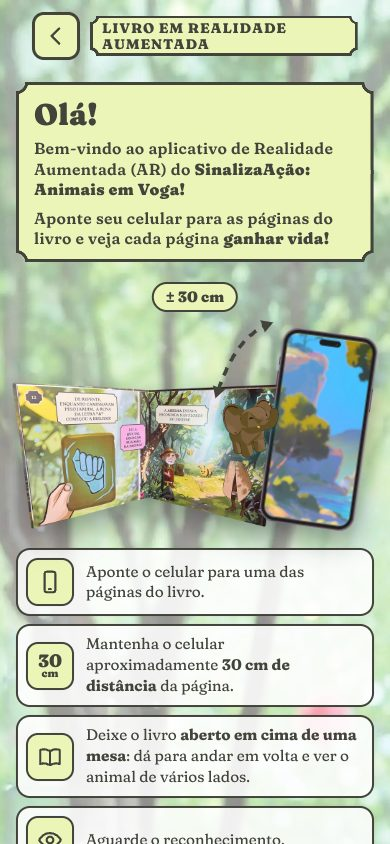
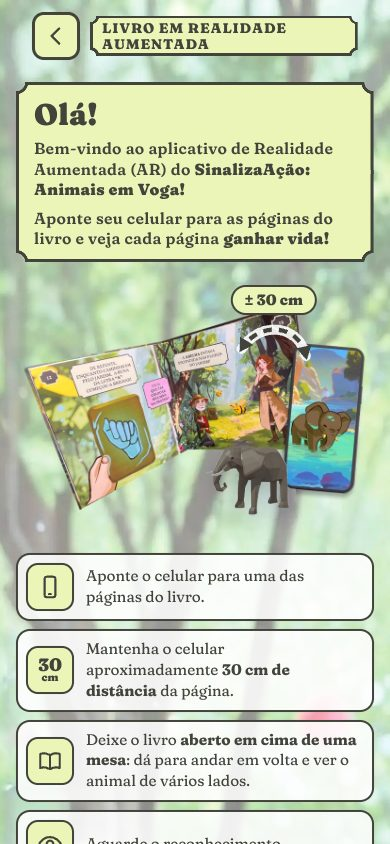
Instruções do livro: a montagem da versão de 04/11 do site (pedido do Luciano)
O Luciano corrigiu a fonte: as imagens vêm da versão do site em
atualização no artefato (04/11), não da versão de teste do plugin (19/10).

- A imagem das instruções agora é a montagem desse site: a foto do livro
  aberto, o celular com o app e o elefante em 3D que mexe a orelha e
  enrola a tromba (WebP animado, as mesmas regras .ele-anim do site),
  com '± 30 cm'. Sem pessoa desenhada.
- Saem a foto do elefante do app e o script que a fazia
  (tools/render-instrucoes.mjs, tools/render-animal.html).
- Teste ponta a ponta, README, ATUALIZACAO e making off atualizados.

Claude-Session: https://claude.ai/code/session_01RK79NN16x9Ym7SA2Zxmn64

diff --git a/inclusiapp/src/styles/app.css b/inclusiapp/src/styles/app.css
@@ -113,32 +113,21 @@ button { font-family: inherit; }
 .intro__arte { margin: 0; }
 .intro__arte img { display: block; width: 100%; height: auto; }
 
-/* instruções do livro: o "salto" do site da InclusiVR (a foto do livro aberto, o celular e o
-   elefante do app saltando da página para o celular), com a distância de ± 30 cm. Sem pessoa. */
-.salto { position: relative; width: 100%; max-width: 440px; aspect-ratio: 100 / 72; margin-inline: auto; }
-.salto > img { position: absolute; display: block; height: auto; max-width: none; }
-.salto .salto__livro { left: -1%; bottom: 2%; width: 76%; z-index: 1; filter: drop-shadow(0 12px 14px rgba(0, 0, 0, .35)); }
-.salto__brilho { position: absolute; z-index: 2; left: 42%; top: 44%; width: 26%; aspect-ratio: 1; border-radius: 50%; pointer-events: none;
-  background: radial-gradient(circle, rgba(116, 230, 232, .9) 0, rgba(88, 196, 200, .45) 34%, rgba(88, 196, 200, 0) 68%); mix-blend-mode: screen; animation: salto-brilho 6s ease-out infinite; }
-.salto .salto__celular { right: 2%; bottom: 3%; width: 27%; z-index: 3; transform: rotate(8deg); filter: drop-shadow(0 10px 14px rgba(0, 0, 0, .4)); }
-.salto .salto__animal { right: 3%; bottom: 17%; width: 24%; z-index: 4; transform-origin: 50% 85%;
-  filter: drop-shadow(0 0 10px rgba(49, 245, 255, .45)) drop-shadow(0 8px 10px rgba(0, 0, 0, .35)); animation: salto-animal 6s cubic-bezier(.2, .8, .2, 1) infinite; }
-.salto__distancia { position: absolute; inset: 0; z-index: 5; width: 100%; height: 100%; overflow: visible; pointer-events: none; }
-.salto__medida { position: absolute; z-index: 6; left: 50%; top: 2%; padding: 3px 12px; border: 2.5px solid var(--signaria-contorno); border-radius: 999px;
+/* instruções do livro: a montagem do site da InclusiVR (versão de 04/11): a foto do livro aberto,
+   o celular com o app e o elefante em 3D que mexe a orelha e a tromba (WebP animado), com "± 30 cm".
+   Sem pessoa desenhada. As regras .ele-anim são as mesmas do site. */
+.livro-ele { position: relative; width: 100%; max-width: 460px; margin: 18px auto 0; }
+.intro__arte .livro-ele__base { display: block; width: 100%; height: auto; }
+.ele-anim { position: relative; display: block; aspect-ratio: var(--ar); }
+.intro__arte .ele-anim img { position: absolute; display: block; max-width: none; height: auto; }
+.intro__arte .ele-anim__corpo { inset: 0; width: 100%; height: 100%; }
+.intro__arte .ele-anim__tromba, .intro__arte .ele-anim__quieta { left: var(--tx); top: var(--ty); width: var(--tw); }
+.ele-anim__quieta { visibility: hidden; }
+.livro-ele__animal { position: absolute; left: 41.67%; top: 52.13%; width: 37.32%; filter: drop-shadow(0 8px 10px rgba(16, 4, 72, .25)); }
+.livro-ele__distancia { position: absolute; inset: 0; z-index: 2; width: 100%; height: 100%; overflow: visible; pointer-events: none; }
+.livro-ele__medida { position: absolute; z-index: 3; left: 72%; top: -4%; padding: 3px 12px; border: 2.5px solid var(--signaria-contorno); border-radius: 999px;
   background: var(--signaria-pergaminho); font-family: var(--font-signaria); font-size: 15px; font-weight: 900; color: var(--signaria-contorno); white-space: nowrap; transform: translateX(-50%); }
-@keyframes salto-animal {
-  0%, 6% { opacity: 0; transform: translate(-128%, 26%) scale(.18); }
-  10% { opacity: 1; }
-  22% { transform: translate(-68%, -38%) scale(.72) rotate(-9deg); }
-  32% { transform: translate(0, 4%) scale(1.03) rotate(2deg); }
-  37% { transform: none; }
-  50% { transform: translateY(-5%); }
-  63% { transform: none; }
-  76% { transform: translateY(-5%); }
-  88% { opacity: 1; transform: none; }
-  96%, 100% { opacity: 0; transform: scale(.9); }
-}
-@keyframes salto-brilho { 0%, 3% { opacity: 0; transform: scale(.6); } 11% { opacity: 1; transform: scale(1.08); } 30% { opacity: .5; transform: scale(1); } 100% { opacity: .3; } }
+@media (prefers-reduced-motion: reduce) { .ele-anim__tromba { display: none; } .ele-anim__quieta { visibility: visible; } }
 @keyframes pisca-estrela { 0%, 100% { transform: scale(.7); opacity: .6; } 50% { transform: scale(1.15); opacity: 1; } }
 @keyframes magia { to { stroke-dashoffset: -18; } }
 .intro__texto { font-size: 16px; }
@@ -503,7 +492,7 @@ button { font-family: inherit; }
 @media (prefers-reduced-motion: reduce) {
   .screen { transition: none; transform: none; }
   .ar-scan__moldura, .ar-scan__demo .ico, .dica-toque__dedo, .botao-libras, .demo__dedo, .demo__arte--mao .ico,
-  .demo__arte--celular img, .embaralhar__monte > i, .zoo-dica .ico, .salto__animal, .salto__brilho, .menu__brilhos > i, .faixa { animation: none; }
+  .demo__arte--celular img, .embaralhar__monte > i, .zoo-dica .ico, .menu__brilhos > i, .faixa { animation: none; }
 }
 
 /* resumo: botões lado a lado sem quebrar em três linhas */

diff --git a/inclusiapp/index.html b/inclusiapp/index.html
@@ -135,17 +135,20 @@
         <p>Aponte seu celular para as páginas do livro e veja cada página <strong>ganhar vida!</strong></p>
       </div>
 
-      <figure class="intro__arte salto" role="img" aria-label="O livro aberto e, ao lado, o celular a mais ou menos 30 centímetros da página. O elefante salta da página para a tela do celular.">
-        <!-- fotos do livro e do celular: site da InclusiVR; o elefante é o do próprio app, fotografado por tools/render-instrucoes.mjs -->
-        <img class="salto__livro" src="assets/img/instrucoes/livro-aberto.webp" alt="" width="760" height="412" decoding="async">
-        <span class="salto__brilho" aria-hidden="true"></span>
-        <img class="salto__celular" src="assets/img/instrucoes/celular.webp" alt="" width="360" height="726" decoding="async">
-        <img class="salto__animal" src="assets/img/instrucoes/elefante.webp" alt="" width="318" height="360" decoding="async">
-        <svg class="salto__distancia" viewBox="0 0 100 72" aria-hidden="true">
-          <defs><marker id="salto-seta" viewBox="0 0 10 10" refX="6" refY="5" markerWidth="4.5" markerHeight="4.5" orient="auto-start-reverse"><path d="M1 1l7 4-7 4z" fill="#42433a"/></marker></defs>
-          <path d="M71 13 C 63 16, 59 24, 56 33" fill="none" stroke="#42433a" stroke-width="1" stroke-dasharray="2.4 2" marker-start="url(#salto-seta)" marker-end="url(#salto-seta)"/>
+      <figure class="intro__arte livro-ele" role="img" aria-label="O livro aberto e, ao lado, um celular com o app, a mais ou menos 30 centímetros da página. Um elefante em 3D sai da página, mexe a orelha e enrola e desenrola a tromba.">
+        <!-- a montagem do site da InclusiVR (versão de 04/11): a foto do livro aberto, o celular com o app e o elefante que mexe a tromba -->
+        <img class="livro-ele__base" src="assets/img/instrucoes/livro-app-elefante.webp" alt="" width="760" height="518" decoding="async">
+        <span class="ele-anim livro-ele__animal" aria-hidden="true" style="--ar:515/430;--tx:0%;--ty:23.72%;--tw:76.31%">
+          <img class="ele-anim__corpo" src="assets/img/instrucoes/elefante-corpo.webp" alt="" width="515" height="430" decoding="async">
+          <img class="ele-anim__quieta" src="assets/img/instrucoes/elefante-tromba-quieta.webp" alt="" width="393" height="218" decoding="async">
+          <img class="ele-anim__tromba" src="assets/img/instrucoes/elefante-tromba.webp" alt="" width="393" height="218" decoding="async">
+        </span>
+        <svg class="livro-ele__distancia" viewBox="0 0 100 68" aria-hidden="true">
+          <defs><marker id="ele-seta" viewBox="0 0 10 10" refX="6" refY="5" markerWidth="4.5" markerHeight="4.5" orient="auto-start-reverse"><path d="M1 1l7 4-7 4z" fill="#42433a"/></marker></defs>
+          <path d="M81 17 C 79 8, 68 7, 63 15" fill="none" stroke="#fff" stroke-width="2.8" stroke-linecap="round" opacity=".9"/>
+          <path d="M81 17 C 79 8, 68 7, 63 15" fill="none" stroke="#42433a" stroke-width="1.2" stroke-dasharray="2.4 2" marker-start="url(#ele-seta)" marker-end="url(#ele-seta)"/>
         </svg>
-        <span class="salto__medida" aria-hidden="true">± 30 cm</span>
+        <span class="livro-ele__medida" aria-hidden="true">± 30 cm</span>
       </figure>
 
       <ol class="passos">

diff --git a/docs/ATUALIZACAO-2026-11.md b/docs/ATUALIZACAO-2026-11.md
@@ -206,7 +206,7 @@ pediu um app mais simples e mais liso. As respostas às perguntas:
 | Arquivar a Aia e o Seu Zé (e as menções a eles) | Saíram os modelos, o código, as bibliotecas, as 4 páginas, os retratos, os botões do zoológico e todos os textos. O reconhecimento voltou a ser **o arquivo de 5 páginas da primeira versão** (o mesmo do JLeo). Como trazer de volta: `docs/ARQUIVO.md` | `config.js`, `bookAR.js`, `zooAR.js`, `index.html` |
 | Tracking liso, sem o animal "travando" | Antes o animal ficava preso à pose do rastreio, que muda só 10 a 20 vezes por segundo (a tela muda 60). Agora ele **segue** a página com amortecimento a cada quadro (`poseFollower.js`). Também saíram o "congela e pula" ao perder a página, a pré-carga de 8 MB com a câmera aberta e as 4 páginas a mais na procura. Virar para a câmera usa a pose já suavizada (o tremor não aumenta mais) | `ar/poseFollower.js`, `ar/bookAR.js`, `ar/pageActor.js` |
 | A página é o validador: tirar a câmera da página e continuar brincando | Sem a página, o animal **desliza para o palco de brincar**, no meio da tela, e continua: passeia, recebe carinho, gira com um dedo e aproxima com dois (os gestos do "Modo Interação" da primeira versão). A mesma página voltou: ele desliza de volta. Outra página: ele se despede e o novo animal salta. Saíram o piscar, o "sumir aos poucos" e o "QUERO VOLTAR PARA MINHA PÁGINA!" | `ar/bookAR.js`, `ar/gestures.js`, `config.js` (`STAGE`, `BOOK`) |
-| Imagem de distância genérica, com uma pessoa | A foto do livro aberto e o celular, **do site da InclusiVR**, com o elefante saltando da página para o celular (a animação do "salto" do site) e "± 30 cm". O elefante é **o do próprio app** (traço do Igor), não o elefante cinza do site: é o que a criança vai ver na câmera. Sem pessoa desenhada | `index.html`, `app.css` (`.salto`), `assets/img/instrucoes/`, `tools/render-instrucoes.mjs` |
+| Imagem de distância genérica, com uma pessoa | A montagem do **site da InclusiVR, versão em atualização (04/11)**: a foto do livro aberto, o celular com o app e o elefante em 3D que mexe a orelha e enrola a tromba, com "± 30 cm". Sem pessoa desenhada. (A primeira tentativa usou a versão de teste do plugin, de 19/10; o Luciano corrigiu: é a versão de 04/11) | `index.html`, `app.css` (`.livro-ele`, `.ele-anim`), `assets/img/instrucoes/` |
 | Tela inicial sem rolar | A tela inicial ocupa a altura exata do aparelho: a janela em arco usa o espaço que sobra, e a marca da InclusiVR fica sempre à vista. Conferido em 360×640, 375×667, 390×844, 412×915, 430×932, tablet e paisagem | `app.css` (`.menu`) |
 | Zoológico: muitas cartas tampavam a página 22 | **Sem a página 22**: as cartas são os validadores, em qualquer posição (girada, de cabeça para baixo, de lado). O animal ou a letra salta do lugar da carta para o palco do zoológico. A carta usada sai da procura (as duas faces), e com os 10 no zoológico o reconhecimento para (o celular só desenha) | `zoo/zooAR.js`, `zoo/zooConfig.js` |
 | Sinalize sem pontos e sem tempo; só certo e errado, com instrução clara | Saíram os pontos, os recordes, as estrelas, a contagem 3-2-1 e o tempo limite. Na vez da criança: "SUA VEZ! FAÇA O SINAL DO **A** PARA A CÂMERA". Outra vogal na câmera: "QUASE! OLHE DE NOVO O SINAL DO A NA CARTA", e ela continua tentando. Certo: "ISSO! VOCÊ FEZ O A!". Fim: "VOCÊ FEZ 4 DE 5 SINAIS", com cada vogal | `sign/signGame.js`, `sign/signState.js`, `sign/signConfig.js` |

diff --git a/README.md b/README.md
@@ -102,11 +102,11 @@ inclusiapp/
 │   ├── targets/               paginas.mind (as 5 páginas da primeira versão), cartas.mind (20 faces: jogo e zoológico)
 │   ├── musica/                a trilha (musica.json diz qual arquivo toca)
 │   ├── zoo/letras.json        contorno das vogais 3D (tools/gerar-letras.py)
-│   ├── img/                   arte final do Igor e do design system, em WebP (instrucoes/: fotos do site + o elefante do app)
+│   ├── img/                   arte final do Igor e do design system, em WebP (instrucoes/: a montagem do site, versão de 04/11)
 │   └── fonts/                 Fraunces Soft (substituta livre da Cooper; OFL)
 ├── vendor/                    MindAR 1.2.5, Three.js r160 (+ meshopt, SkeletonUtils), MediaPipe 1.0.1
 └── cartas/ pag/ videos/ exemplo/ codes/      arquivos originais
-tools/                         servidor, alvos (compile-targets), imagens, foto do animal (render-instrucoes), letras 3D, medição dos vídeos de LIBRAS
+tools/                         servidor, alvos (compile-targets), imagens, letras 3D, medição dos vídeos de LIBRAS
 tests/                         testes de unidade, de reconhecimento e ponta a ponta
 ```
 
@@ -295,9 +295,10 @@ acertar, aparece **uma** dica (a mão inteira na câmera, com luz); nada se perd
   qualquer celular, sem rolar: a janela usa o espaço que sobra, e a marca da
   InclusiVR fica sempre à vista. **TELA CHEIA** nos cantos (só onde o navegador
   deixa: o Safari do iPhone não deixa) e **MÚSICA** (quando houver o arquivo).
-- **Instruções do livro**: a foto do livro aberto e o celular (do site da
-  InclusiVR), com o elefante **do app** saltando da página para o celular
-  (`tools/render-instrucoes.mjs` fotografa o `.glb`), e "± 30 cm". Sem pessoa.
+- **Instruções do livro**: a montagem do site da InclusiVR (a versão em
+  atualização, de 04/11): a foto do livro aberto, o celular com o app e o
+  elefante em 3D que mexe a orelha e enrola a tromba (WebP animado, as mesmas
+  regras `.ele-anim` do site), com "± 30 cm". Sem pessoa.
 - **Música**: a trilha do sound design, em laço e baixinha
   (`src/ui/music.js`). Para ligar ou trocar: ponha o MP3 em `assets/musica/`
   (nome sem acento nem espaço) e escreva o nome em `assets/musica/musica.json`.

diff --git a/making_off/linha_do_tempo.md b/making_off/linha_do_tempo.md
@@ -175,13 +175,15 @@ faixa do "QUASE!" ficava por cima dos botões durante quase três segundos. O
 aviso passou para a instrução e para a câmera (imagem `03_05`).
 
 **As instruções sem a pessoa.** "Ser humano ali está um pouco feio, não combina
-com o estilo da InclusiVR." A foto do livro aberto e o celular vieram do site,
-da versão com o plugin de LIBRAS, junto com a animação do "salto".
-
-O elefante do site era um elefante cinza genérico, diferente do que a criança
-vê no app. O Claude preferiu fotografar o elefante do próprio app, feito do
-traço do Igor, jogando água com a tromba. Um script faz isso
-(`tools/render-instrucoes.mjs`). Imagem `03_02`.
+com o estilo da InclusiVR."
+- Na primeira tentativa, o Claude pegou as fotos da versão de teste do site com
+  o plugin (de 19/10) e trocou o elefante cinza do site pelo elefante do
+  próprio app.
+- O Luciano corrigiu: "o site que eu digo é a versão update, que estamos
+  fazendo no artefato". É a versão de 04/11.
+- A imagem final é a montagem dessa versão, como está lá: a foto do livro
+  aberto, o celular com o app e o elefante em 3D que mexe a orelha e enrola a
+  tromba. Por cima, só o "± 30 cm" (imagem `03_02`).
 
 **Tela inicial e tela cheia.**
 - A tela inicial passou a ocupar a altura exata do aparelho. Foi conferida sem

diff --git a/making_off/falas.md b/making_off/falas.md
@@ -33,3 +33,6 @@ foi escrito, só com acentos corrigidos):
 - "O tempo passa a impressão de que tem que fazer rápido, e isso vai
   ativamente contra o bom funcionamento do media pipe. Apenas certo e errado
   está ótimo, e informar para fazer claramente." (10/11/2026)
+- "O site que eu digo é a versão update, que estamos fazendo no artefato. A
+  versão da Maria, mas com plugin. Você sabe disso. Não é a versão que estava
+  ao vivo." (10/11/2026, ao ver a primeira imagem das instruções)

diff --git a/making_off/licoes.md b/making_off/licoes.md
@@ -39,3 +39,7 @@
 13. **A imagem de instrução mostra o que a criança vai ver.** Se o material de
     divulgação usa outro modelo, use o modelo do próprio app, fotografado por
     script. (Capítulo 3)
+14. **"O site" tem várias versões: confirme qual antes de copiar material.**
+    A publicada, a de teste do plugin e a que está em atualização no artefato
+    têm imagens diferentes. Na dúvida, a referência é a versão em atualização.
+    (Capítulo 3)
